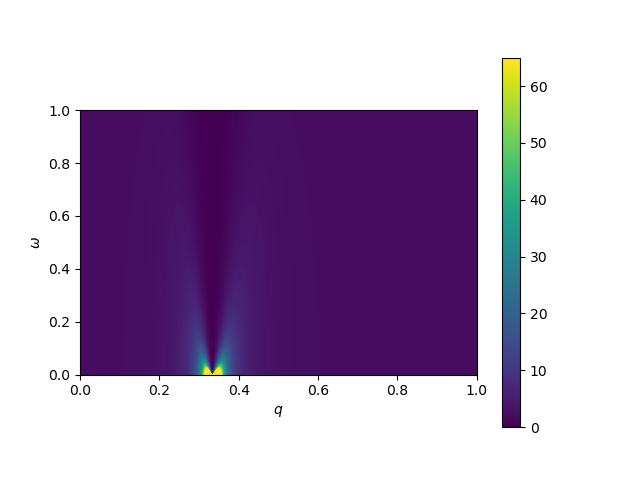
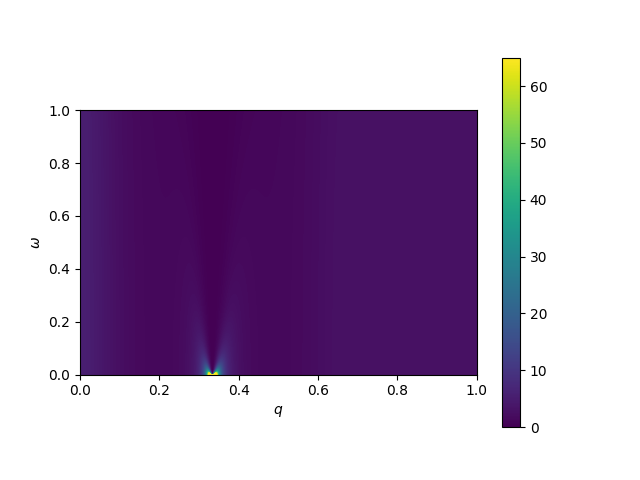
cosa

Changed region(s): [[0.2812, 0.625, 0.4062, 0.7812]]

diff --git a/Modular/IntSelfEnergy.py b/Modular/IntSelfEnergy.py
@@ -713,7 +713,7 @@ class SelfE():
         plt.scatter([0],[0], c='k', s=1)
         
         mini=np.min(shifts)
-        mini2=np.sort(shifts)[3]
+        mini2=np.sort(shifts)[int(np.size(shifts)/20)]
         logmax=np.log10( np.max(shifts)-np.min(shifts) +1e-17)
         logmin=np.log10(mini2-np.min(shifts) +1e-17)
         plt.scatter(self.qxFS,self.qyFS,c=np.log10( shifts-mini +1e-17) )
@@ -926,7 +926,7 @@ def main() -> int:
     ##########################
 
     Npoints=1000
-    Npoints_int_pre, NpointsFS_pre=1000,4000
+    Npoints_int_pre, NpointsFS_pre=100,4000
     save=True
     l=Lattice.TriangLattice(Npoints_int_pre, save)
     [KX,KY]=l.read_lattice(sq=1)
